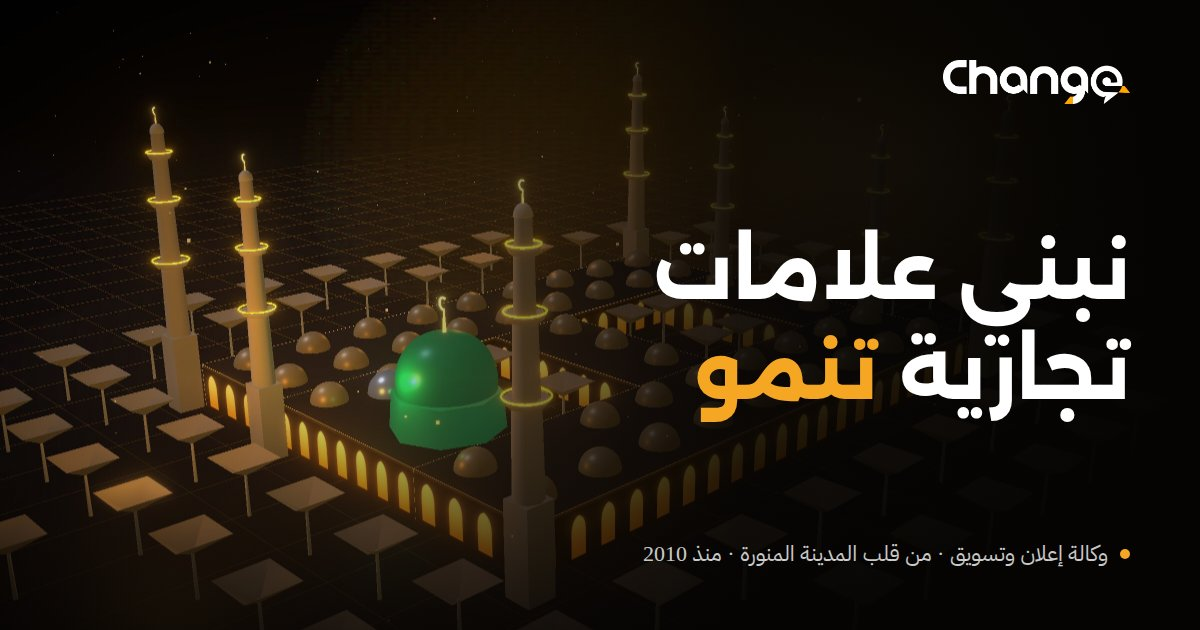
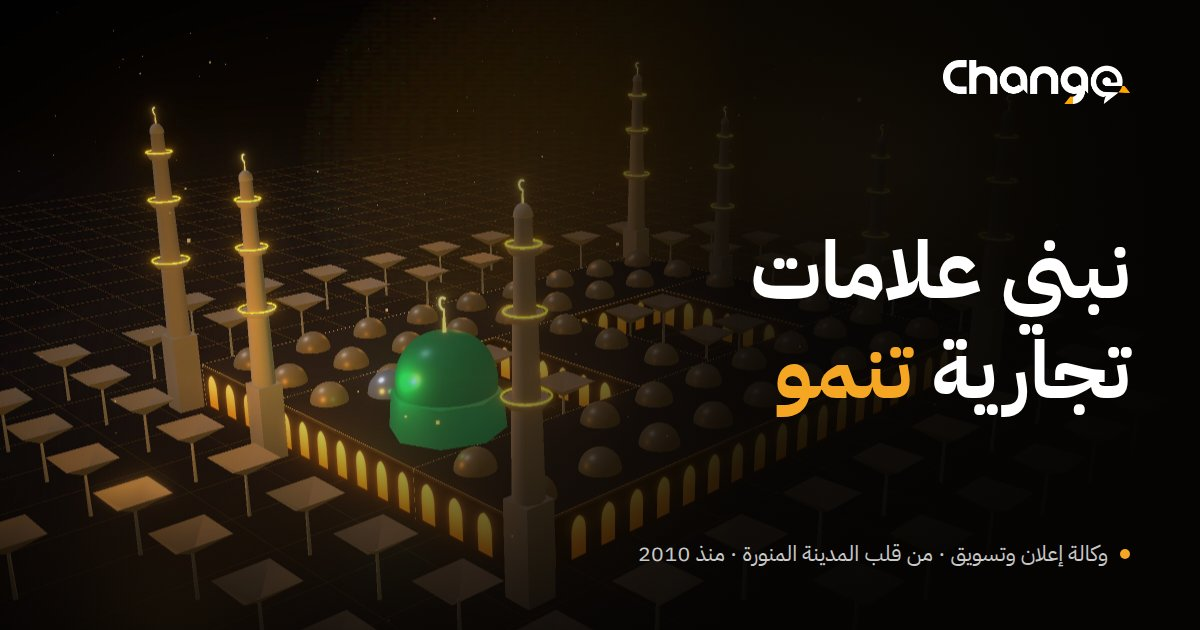
Switch typography to the IBM Plex family
IBM Plex Sans (English), IBM Plex Sans Arabic (Arabic headlines and
text) and IBM Plex Mono for small labels. Share images regenerated
with the same fonts.

Claude-Session: https://claude.ai/code/session_011wE9dEhss6aAzaFPhjBRJ5

Changed region(s): [[0.5242, 0.3619, 0.9558, 0.6937], [0.5242, 0.8444, 0.8942, 0.9048]]

diff --git a/src/index.css b/src/index.css
@@ -45,6 +45,7 @@
   --font-sans: var(--app-font-sans);
   --font-arabic: var(--app-font-arabic);
   --font-display: var(--app-font-display);
+  --font-mono: var(--app-font-mono);
 
   --radius-sm: calc(var(--radius) - 4px);
   --radius-md: calc(var(--radius) - 2px);
@@ -84,17 +85,19 @@
   --destructive: 0 84% 60%;
   --destructive-foreground: 0 0% 100%;
 
-  --app-font-sans: 'Inter', system-ui, sans-serif;
-  --app-font-display: 'Space Grotesk', 'Inter', system-ui, sans-serif;
-  --app-font-arabic: 'IBM Plex Sans Arabic', 'Inter', system-ui, sans-serif;
+  /* IBM Plex family across the site. */
+  --app-font-sans: 'IBM Plex Sans', 'IBM Plex Sans Arabic', system-ui, sans-serif;
+  --app-font-display: 'IBM Plex Sans', 'IBM Plex Sans Arabic', system-ui, sans-serif;
+  --app-font-arabic: 'IBM Plex Sans Arabic', 'IBM Plex Sans', system-ui, sans-serif;
+  --app-font-mono: 'IBM Plex Mono', ui-monospace, monospace;
   
   --radius: 0rem;
 }
 
-/* Arabic pages: Alexandria for headlines, IBM Plex Sans Arabic for text. */
+/* Arabic pages: IBM Plex Sans Arabic for headlines and text. */
 html[dir="rtl"] {
-  --app-font-sans: 'IBM Plex Sans Arabic', 'Inter', system-ui, sans-serif;
-  --app-font-display: 'Alexandria', 'IBM Plex Sans Arabic', system-ui, sans-serif;
+  --app-font-sans: 'IBM Plex Sans Arabic', 'IBM Plex Sans', system-ui, sans-serif;
+  --app-font-display: 'IBM Plex Sans Arabic', 'IBM Plex Sans', system-ui, sans-serif;
 }
 
 .dark {

diff --git a/index.html b/index.html
@@ -13,7 +13,7 @@
     <link rel="manifest" href="/site.webmanifest" />
     <link rel="preconnect" href="https://fonts.googleapis.com">
     <link rel="preconnect" href="https://fonts.gstatic.com" crossorigin>
-    <link href="https://fonts.googleapis.com/css2?family=Alexandria:wght@400;500;600;700;800&family=IBM+Plex+Sans+Arabic:wght@300;400;500;600;700&family=Inter:wght@300;400;500;600;700&family=Space+Grotesk:wght@400;500;600;700&display=swap" rel="stylesheet">
+    <link href="https://fonts.googleapis.com/css2?family=IBM+Plex+Mono:wght@400;500&family=IBM+Plex+Sans+Arabic:wght@300;400;500;600;700&family=IBM+Plex+Sans:wght@300;400;500;600;700&display=swap" rel="stylesheet">
   </head>
   <body>
     <div id="root"><!--app-html--></div>
